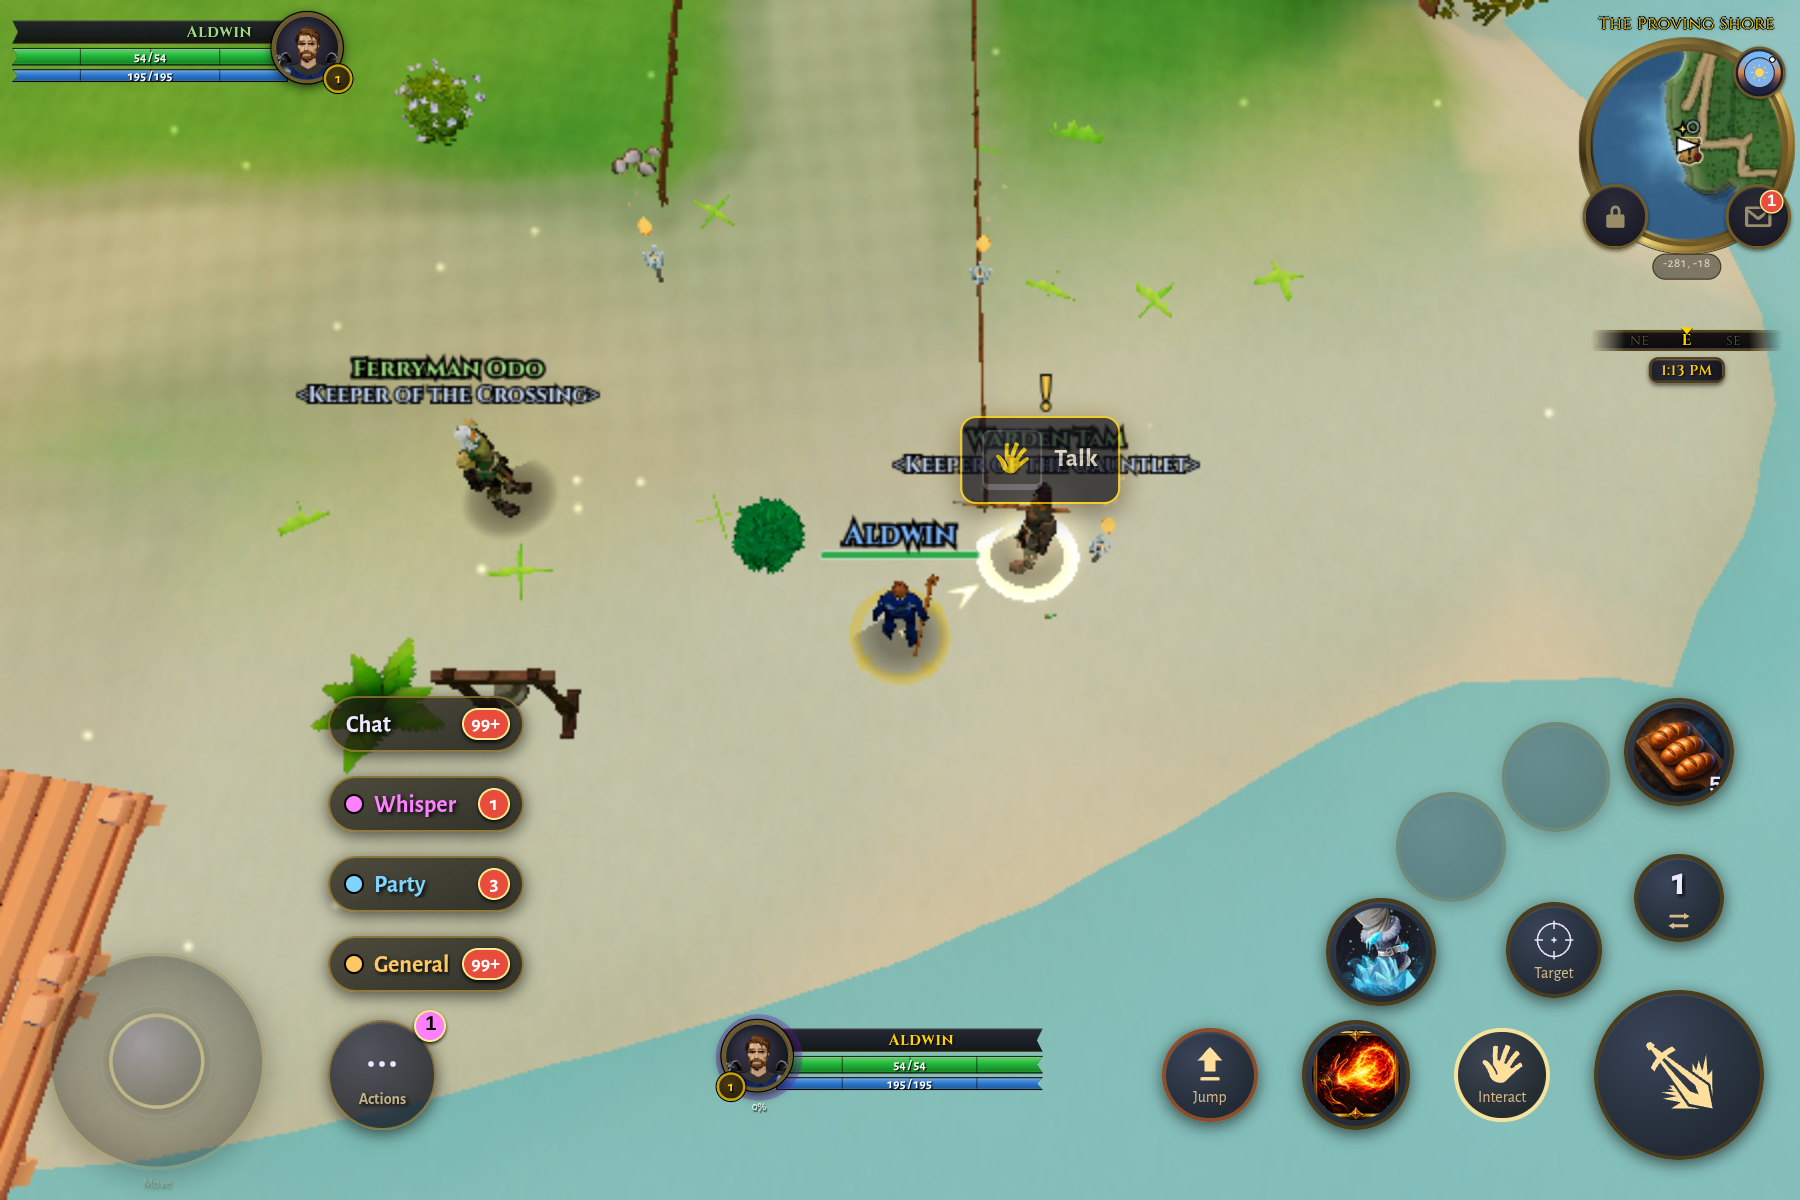
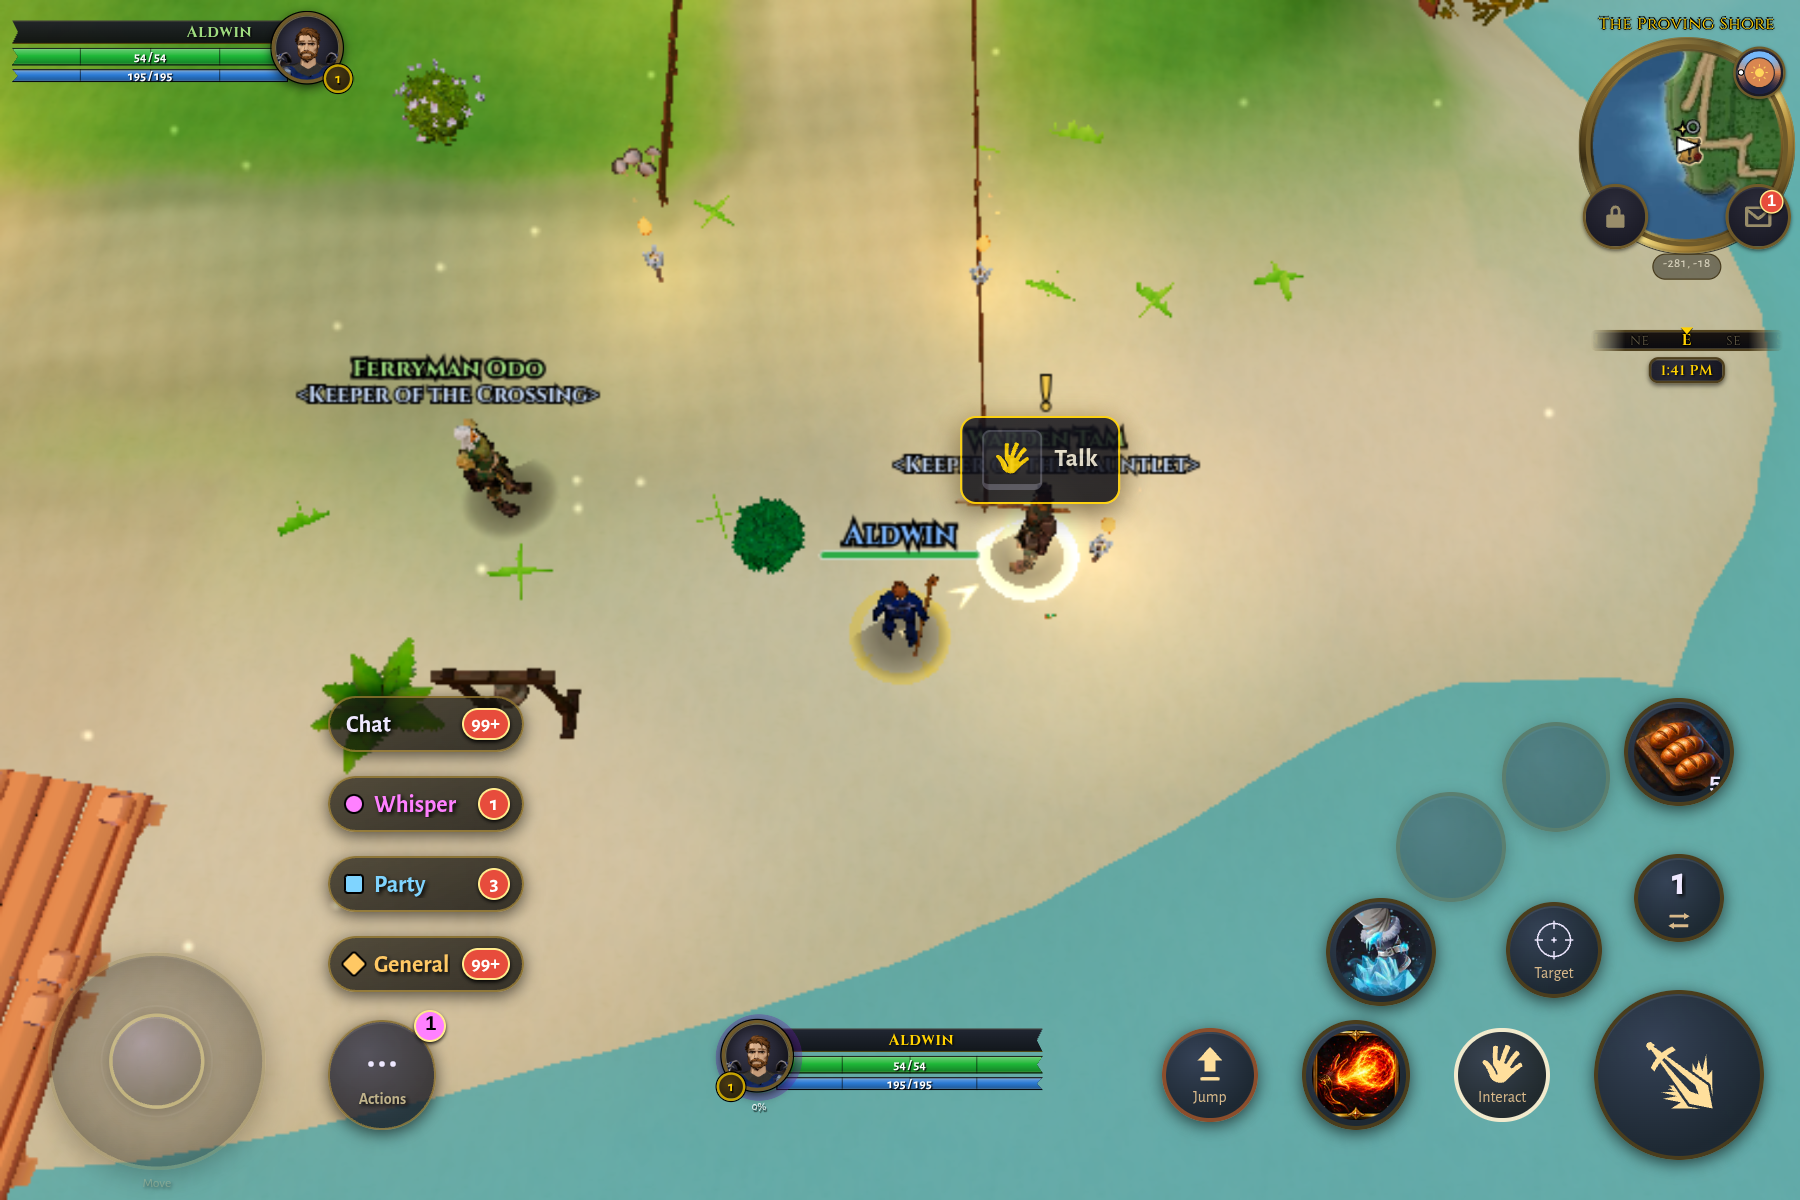
fix(mobile): review fixes for the unread chat box
Two fresh reviewers went over the box. Nothing blocking, but several
gaps were real and are closed here.

- Compact pills dropped the channel names, leaving hue as the only cue:
  each mark now has its own shape, and an outline under forced-colors.
- A row that clears itself no longer strands keyboard focus; the box
  joins the shared touch focus ring; the group is named once.
- The lift follows the seat's height, so a Seeker build's daily chest
  is cleared instead of covered.
- Tests: language switch, options rows, focus hand-off, Seeker seat.

diff --git a/tests/chat_unread_box.test.ts b/tests/chat_unread_box.test.ts
@@ -12,7 +12,11 @@ import {
   type ChatContextMenuPort,
   ChatWindowController,
 } from '../src/ui/hud/chat/chat_window_controller';
-import { WHISPER_UNREAD_BADGE_CLASS } from '../src/ui/hud/chat/whisper_unread_badge';
+import {
+  WHISPER_UNREAD_BADGE_CLASS,
+  WHISPER_UNREAD_DESC_ID,
+} from '../src/ui/hud/chat/whisper_unread_badge';
+import { ensureLocaleLoaded, setLanguage, t } from '../src/ui/i18n';
 
 // The real ChatWindowController over a jsdom document carrying the Quick
 // Actions seat the unread box hangs over. `noteChatReceived(channel)` is the
@@ -128,6 +132,7 @@ describe('unread chat box on the touch HUD', () => {
     expect(row('party').getAttribute('aria-label')).toBe('Party: 3');
     expect(row('whisper').getAttribute('aria-label')).toBe('Whisper: 1');
     expect(head().getAttribute('aria-label')).toBe('Chat: 4');
+    expect(box()?.getAttribute('aria-label')).toBe('Chat');
     expect(row('party').textContent).toContain('Party');
     expect(row('party').style.getPropertyValue('--chat-unread-color')).toBe('#7fd4ff');
     expect(row('whisper').style.getPropertyValue('--chat-unread-color')).toBe('#ff80ff');
@@ -251,6 +256,55 @@ describe('unread chat box on the touch HUD', () => {
     // The opener toggles, so a second click would have closed the panel.
     expect(document.body.classList.contains('mobile-chat-open')).toBe(true);
     expect(activeTab()).toBe('party');
+  });
+
+  it('hands focus to the tab it opened when the activated row clears itself', async () => {
+    chat = await remount(['party']);
+    receive(chat, 'party', 2);
+    row('party').focus();
+    row('party').click();
+    expect(boxShown()).toBe(false);
+    const active = document.activeElement as HTMLElement | null;
+    expect(active?.classList.contains('chat-tab')).toBe(true);
+    expect(active?.dataset.tab).toBe('party');
+  });
+
+  it('names the group once: the header carries the total, the group only the title', () => {
+    receive(chat, 'whisper', 2);
+    expect(box()?.getAttribute('aria-label')).toBe('Chat');
+    expect(head().getAttribute('aria-label')).toBe('Chat: 2');
+  });
+
+  it('repaints the box and the badge in the new language on a language switch', async () => {
+    receive(chat, 'whisper', 12);
+    receive(chat, 'party', 3);
+    const badge = (): string | null =>
+      document.querySelector(`#mobile-menu-anchor > .${WHISPER_UNREAD_BADGE_CLASS}`)?.textContent ??
+      null;
+    expect(row('party').getAttribute('aria-label')).toBe('Party: 3');
+    expect(badge()).toBe('9+');
+    await ensureLocaleLoaded('de_DE');
+    setLanguage('de_DE');
+    try {
+      // Nothing repaints until the shell announces the switch.
+      expect(row('party').getAttribute('aria-label')).toBe('Party: 3');
+      document.dispatchEvent(new CustomEvent('woc:languagechange'));
+      const party = t('hud.core.chatChannels.names.party');
+      const whisper = t('hud.chat.context.whisper');
+      const title = t('hud.core.mobileChat');
+      expect(row('party').getAttribute('aria-label')).toBe(`${party}: 3`);
+      expect(row('party').textContent).toContain(party);
+      expect(row('whisper').getAttribute('aria-label')).toBe(`${whisper}: 12`);
+      expect(head().getAttribute('aria-label')).toBe(`${title}: 15`);
+      expect(box()?.getAttribute('aria-label')).toBe(title);
+      expect(document.getElementById(WHISPER_UNREAD_DESC_ID)?.textContent).toBe(`${whisper}: 12`);
+      // The switch must actually have changed something, or this proves nothing.
+      expect([party, whisper, title]).not.toEqual(['Party', 'Whisper', 'Chat']);
+    } finally {
+      setLanguage('en');
+      document.dispatchEvent(new CustomEvent('woc:languagechange'));
+    }
+    expect(row('party').getAttribute('aria-label')).toBe('Party: 3');
   });
 
   it('never shows on desktop', () => {

diff --git a/tests/chat_unread_box_seat.test.ts b/tests/chat_unread_box_seat.test.ts
@@ -45,7 +45,11 @@ describe('unread chat box seat', () => {
   it('hangs over the Quick Actions seat, out of flow, anchored by its bottom edge', () => {
     const box = ruleBody(BOX);
     expect(box).toMatch(/position:\s*absolute/);
-    expect(box).toMatch(/bottom:\s*calc\(100% \* var\(--btn-scale, 1\) \+ 8px\)/);
+    // The seat's own height (anchor, plus the Seeker chest when one is stacked
+    // over it) plus the growth --btn-scale adds to the anchor about its bottom.
+    expect(box).toMatch(
+      /bottom:\s*calc\(100% \+ var\(--menu-btn-size\) \* \(var\(--btn-scale, 1\) - 1\) \+ 8px\)/,
+    );
     expect(box).not.toMatch(/\btop:/);
     // It grows AWAY from the move wheel, which sits on the seat's other side.
     expect(box).toMatch(/left:\s*0;/);
@@ -113,6 +117,20 @@ describe('unread chat box seat', () => {
     expect(compact).toMatch(/display:\s*none/);
   });
 
+  it('tells the channels apart by shape, not hue alone, and survives forced colors', () => {
+    expect(ruleBody(`${BOX} [data-chan="party"] .chat-unread-dot`)).toMatch(/border-radius:\s*1px/);
+    expect(ruleBody(`${BOX} [data-chan="general"] .chat-unread-dot`)).toMatch(
+      /transform:\s*rotate\(45deg\)/,
+    );
+    expect(css).toMatch(
+      /@media \(forced-colors: active\) \{\s*body\.mobile-touch #chat-unread-box \.chat-unread-dot \{\s*border:\s*2px solid CanvasText;/,
+    );
+    // The box joins the shared touch focus ring rather than minting its own.
+    expect(css).toMatch(
+      /body\.mobile-touch #chat-unread-box button:focus-visible \{\s*outline:\s*2px solid var\(--color-border-focus\);/,
+    );
+  });
+
   it('is steady: no animation, and the idle fade is off under reduced motion', () => {
     const start = css.indexOf('/* Unread chat box (chat_unread_box.ts)');
     const end = css.indexOf('/* The cancel X sits directly ON the control', start);
@@ -152,7 +170,12 @@ describe('unread chat box seat', () => {
     const targetBottom = Math.max(...targetBands);
 
     /** The box's top edge, in px from the viewport TOP, with every row lit. */
-    function boxTop(tier: 'compact' | 'standard' | 'tablet', vh: number, btnScale: number): number {
+    function boxTop(
+      tier: 'compact' | 'standard' | 'tablet',
+      vh: number,
+      btnScale: number,
+      stackedAbove = 0,
+    ): number {
       const seat = seatTerms(
         tier === 'compact' ? COMPACT_SEAT : tier === 'tablet' ? TABLET_SEAT : SEAT,
       );
@@ -167,7 +190,7 @@ describe('unread chat box seat', () => {
       const seatBottom = seat.inset + btnScale * (seat.centre * chrome - menu / 2);
       // Compact drops the header; the other tiers carry it above the rows.
       const rows = CHAT_UNREAD_CHANNELS.length + (tier === 'compact' ? 0 : 1);
-      return vh - (seatBottom + menu * btnScale + lift + rows * rowHeight);
+      return vh - (seatBottom + menu * btnScale + stackedAbove + lift + rows * rowHeight);
     }
 
     it('reads a plausible target band out of the stylesheet', () => {
@@ -210,5 +233,20 @@ describe('unread chat box seat', () => {
         }
       });
     }
+
+    it('still clears it on a Seeker build, where the daily chest is stacked over the control', () => {
+      const chest = ruleBody(
+        'body.mobile-touch.seeker-wallet-enabled\n    #mobile-combat-controls\n    #mobile-daily-rewards:not([hidden])',
+      );
+      const stacked =
+        px(chest, /\bheight:\s*(\d+)px/) +
+        px(ruleBody('body.mobile-touch #mobile-combat-controls'), /gap:\s*(\d+)px/);
+      // The Seeker phone is about 400 CSS px tall in landscape.
+      for (const scale of scales) {
+        expect(boxTop('compact', 400, scale, stacked), `button scale ${scale}`).toBeGreaterThan(
+          targetBottom + 16,
+        );
+      }
+    });
   });
 });

diff --git a/src/styles/hud.mobile.css b/src/styles/hud.mobile.css
@@ -1889,14 +1889,16 @@
      bottom-centre cluster (player frame, cast bar). Those all live in #ui,
      which stacks ABOVE this whole layer, so the box can sit under one of them
      in a crowded raid but can never cover it.
-     It grows away from the move wheel (right; left under the mirror) and its
-     lift scales with --btn-scale, the same scale the control grows by.
+     It grows away from the move wheel (right; left under the mirror). Its lift
+     is the seat's own height (so it also clears the daily chest a Seeker build
+     stacks over the control) plus what --btn-scale adds to the control, which
+     scales about its bottom edge without changing the seat's layout height.
      Steady by design: no pulse, slide or scale, so the only motion is the
      shared idle fade, which the reduced-motion block below switches off. */
   body.mobile-touch #chat-unread-box {
     position: absolute;
     left: 0;
-    bottom: calc(100% * var(--btn-scale, 1) + 8px);
+    bottom: calc(100% + var(--menu-btn-size) * (var(--btn-scale, 1) - 1) + 8px);
     display: flex;
     flex-direction: column;
     align-items: stretch;
@@ -1934,10 +1936,6 @@
   body.mobile-touch #chat-unread-box button[hidden] {
     display: none;
   }
-  body.mobile-touch #chat-unread-box button:focus-visible {
-    outline: 2px solid var(--gold);
-    outline-offset: -2px;
-  }
   body.mobile-touch #chat-unread-box .chat-unread-plate {
     display: flex;
     flex: 1 1 auto;
@@ -1963,6 +1961,27 @@
     border-radius: 50%;
     background: var(--chat-unread-color, var(--color-mobile-btn-ink));
     box-shadow: 0 0 0 1px var(--color-keyline);
+  }
+  /* Each channel's mark has its own SHAPE as well as its own hue (whisper a
+     disc, party a square, general a diamond), because the compact pills drop
+     the names: without it a lone pill would be told apart by colour alone.
+     forced-colors replaces the palette wholesale, so there the mark is drawn
+     as an outline in the system text colour and the shape carries it. */
+  body.mobile-touch #chat-unread-box [data-chan="party"] .chat-unread-dot {
+    border-radius: 1px;
+  }
+  body.mobile-touch #chat-unread-box [data-chan="general"] .chat-unread-dot {
+    border-radius: 1px;
+    transform: rotate(45deg);
+  }
+  @media (forced-colors: active) {
+    body.mobile-touch #chat-unread-box .chat-unread-dot {
+      border: 2px solid CanvasText;
+      box-shadow: none;
+    }
+    body.mobile-touch #chat-unread-box .chat-unread-plate {
+      border-color: CanvasText;
+    }
   }
   body.mobile-touch #chat-unread-box .chat-unread-name {
     flex: 1 1 auto;
@@ -9828,7 +9847,8 @@
   body.mobile-touch .bar-editor-cell:focus-visible,
   body.mobile-touch .bar-editor-tab:focus-visible,
   body.mobile-touch .bar-editor-clear:focus-visible,
-  body.mobile-touch .spell-hotbar-assign:focus-visible {
+  body.mobile-touch .spell-hotbar-assign:focus-visible,
+  body.mobile-touch #chat-unread-box button:focus-visible {
     outline: 2px solid var(--color-border-focus);
     outline-offset: 2px;
   }

diff --git a/src/ui/hud/chat/chat_unread_box.ts b/src/ui/hud/chat/chat_unread_box.ts
@@ -12,10 +12,17 @@
 // tier the names and the header drop and each row is a dot-and-count pill, so
 // the footprint stays exactly as wide as the control beneath it.
 //
+// Bare-named on purpose, like whisper_unread_badge.ts beside it: it is neither
+// a window nor a painter on the PainterHost seam (its composition point is
+// ChatWindowController, which holds no facet), it is repainted only by chat
+// events, and it takes no layout read and arms no driver. Registered in
+// tests/architecture.test.ts UI_DOM_MODULES.
+//
 // Every row is a real button: a tap selects that channel's tab and opens chat
 // (the controller decides which tab). The accessible name carries the channel
 // and the count, so the compact pills are never colour-only to a screen reader.
 
+import { focusedWithin } from '../../focus_restore';
 import { formatNumber, type TranslationKey, t } from '../../i18n';
 import { bindTouchTap } from '../../touch_tap';
 import { chatChannelColor, chatOpenTabLabelKey } from './chat_channels';
@@ -81,7 +88,9 @@ export class ChatUnreadBox {
     const title = t(TITLE_KEY);
     const total = chatUnreadTotal(rows);
     this.write(this.head, title, total);
-    setAttr(root, 'aria-label', this.describe(title, total));
+    // The group is named by the title alone: the header button already reads
+    // the title with the total, and the same string twice is announced twice.
+    setAttr(root, 'aria-label', title);
     for (const channel of CHAT_UNREAD_CHANNELS) {
       const nodes = this.rows.get(channel);
       if (!nodes) continue;
@@ -96,6 +105,15 @@ export class ChatUnreadBox {
     setText(nodes.name, name);
     setText(nodes.count, this.pillText(count));
     setAttr(nodes.button, 'aria-label', this.describe(name, count));
+  }
+
+  /** True while focus sits on one of the box's own buttons AND that button is
+   *  still on screen. A browser moves focus off a button the moment it is
+   *  hidden; a hidden button that still holds focus counts as not held too. */
+  holdsFocus(): boolean {
+    if (!this.root || this.root.hidden) return false;
+    const active = focusedWithin(this.root);
+    return active !== null && !active.hidden;
   }
 
   private pillText(count: number): string {

diff --git a/tests/options_view.test.ts b/tests/options_view.test.ts
@@ -738,6 +738,31 @@ describe('options_view: graphics dispatch matrix (cluster 3)', () => {
     expect(keys).not.toContain('note:hudChrome.options.touchPreciseAimNote');
   });
 
+  it('offers the unread chat box rows on touch only, with the General row off by default', () => {
+    const source = makeSource({ graphicsPreset: 4 }, { chatUnreadBox: true });
+    const touch = buildGraphicsControls(source, { touch: true, nativeShell: false });
+    const keys = keysOf(touch);
+    const at = keys.indexOf('chatUnreadBox');
+    expect(at).toBeGreaterThan(keys.indexOf('touchTapMenus'));
+    expect(keys[at + 1]).toBe('note:hudChrome.options.chatUnreadBoxNote');
+    expect(keys[at + 2]).toBe('chatUnreadBoxGeneral');
+    const row = (key: string) => touch.find((c) => c.control === 'boolToggle' && c.key === key);
+    expect(row('chatUnreadBox')).toMatchObject({
+      labelKey: 'hudChrome.options.chatUnreadBox',
+      on: true,
+    });
+    expect(row('chatUnreadBoxGeneral')).toMatchObject({
+      labelKey: 'hudChrome.options.chatUnreadBoxGeneral',
+      on: false,
+    });
+    // The shipped defaults: the box on, its General row off.
+    expect(BOOL_SETTINGS.chatUnreadBox.def).toBe(true);
+    expect(BOOL_SETTINGS.chatUnreadBoxGeneral.def).toBe(false);
+    const desktop = keysOf(buildGraphicsControls(source, { touch: false, nativeShell: false }));
+    expect(desktop).not.toContain('chatUnreadBox');
+    expect(desktop).not.toContain('chatUnreadBoxGeneral');
+  });
+
   it('gives mobile touch toggles their correct i18n keys', () => {
     const controls = buildGraphicsControls(
       makeSource({ graphicsPreset: 4 }, { touchPreciseGroundAim: true }),

diff --git a/src/ui/hud/chat/chat_unread_controller.ts b/src/ui/hud/chat/chat_unread_controller.ts
@@ -30,6 +30,8 @@ const CHAT_OPEN_CLASS = 'mobile-chat-open';
 const CHAT_PEEK_CLASS = 'mobile-chatlog-peek';
 /** The Quick Actions strip's Chat seat: the real button that opens chat. */
 const CHAT_OPENER_ID = 'mobile-menu-chat';
+/** The selected chat tab: where focus goes when a tapped row clears itself. */
+const ACTIVE_TAB_SELECTOR = '#chatlog-tabs .chat-tab.active';
 
 export interface ChatUnreadControllerDeps {
   document: Document;
@@ -103,11 +105,18 @@ export class ChatUnreadController {
    *  button so the touch controls run their own open path. */
   private open(channel: ChatUnreadChannel | null): void {
     const { document } = this.deps;
+    // Reading the row clears it, which hides the button that was just
+    // activated. A keyboard or switch user must not be dropped on <body>, so
+    // focus follows them to the tab they landed on.
+    const hadFocus = this.box.holdsFocus();
     this.deps.selectTab(chatUnreadTapTab(channel, this.deps.openTabs()));
     if (!document.body.classList.contains(CHAT_OPEN_CLASS)) {
       document.getElementById(CHAT_OPENER_ID)?.click();
     }
     this.sync();
+    if (hadFocus && !this.box.holdsFocus()) {
+      document.querySelector<HTMLElement>(ACTIVE_TAB_SELECTOR)?.focus();
+    }
   }
 
   private view(): ChatViewState {

diff --git a/src/ui/i18n.catalog/hud_chrome.ts b/src/ui/i18n.catalog/hud_chrome.ts
@@ -1396,6 +1396,9 @@ export const hudChromeStrings = {
     // (whisper_unread_badge.ts). Overflow is the capped badge text ("9+");
     // Desc is the aria-describedby text, composed from the existing Whisper tab
     // label so every locale reads natively with no new prose to translate.
+    // Both are ALSO used by the unread chat box (chat_unread_box.ts) for its
+    // Party, General and header lines, so they must stay channel-neutral: only
+    // the placeholders and punctuation, never a word about whispers.
     whisperUnreadOverflow: '{count}+',
     whisperUnreadDesc: '{channel}: {count}',
     // The touch stance control: ONE circle on the button row wearing the stance
